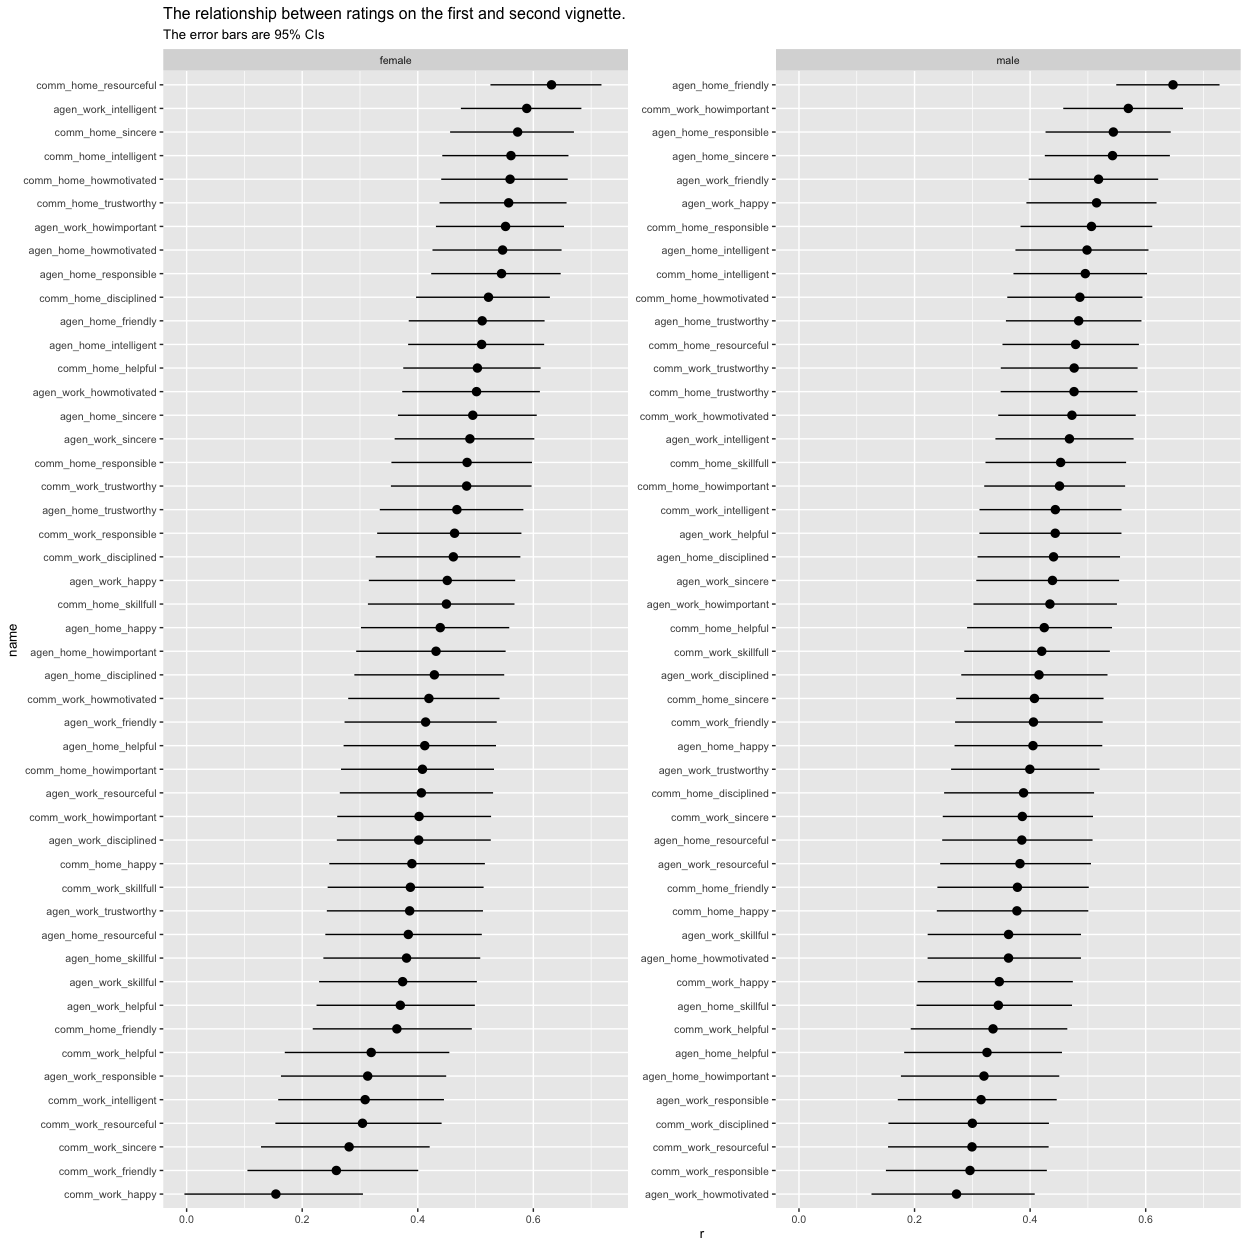
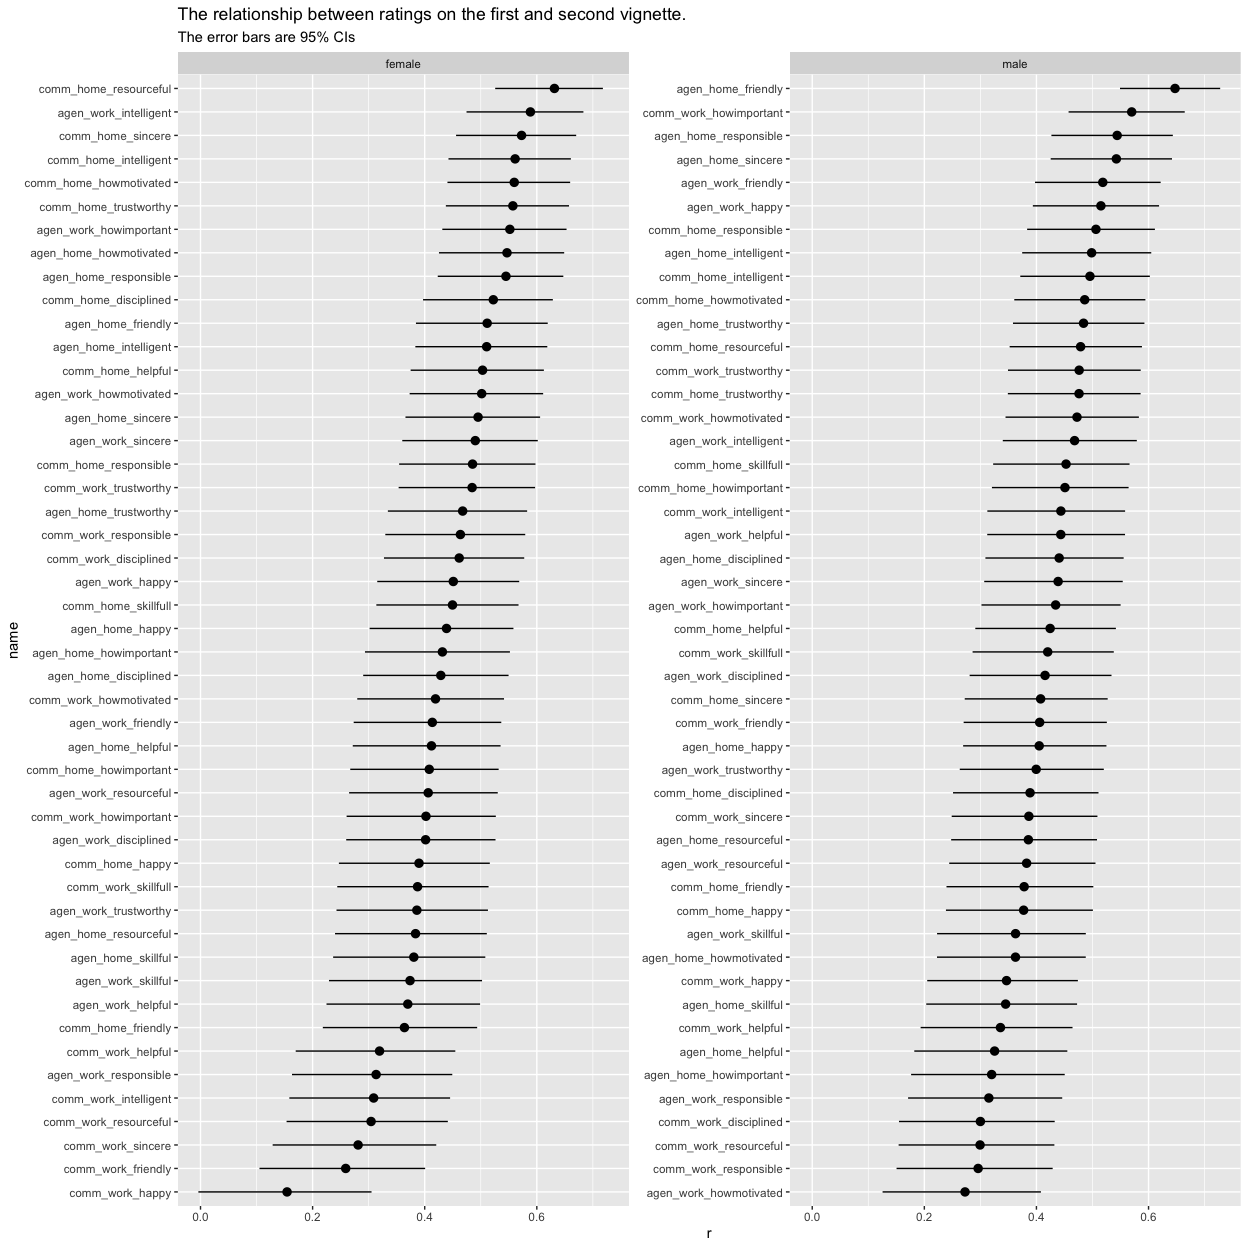
fixing plot text - increase size5

diff --git a/gpof-items.md b/gpof-items.md
@@ -16,7 +16,7 @@ This plot shows the correlations at the item level. E.g., what is the
 correlation between `Agen_Work_Skillful_1` and `Agen_Work_Skillful_2`.
 
 ``` r
-p1 + theme(text = element_text(size=10))
+p1
 ```
 
 ![](gpof-items_files/figure-gfm/unnamed-chunk-2-1.png)<!-- -->
